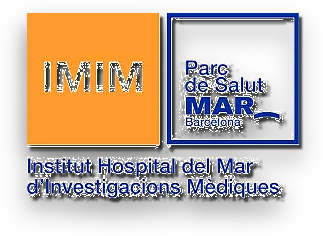
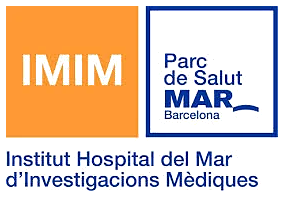
IMIM: reemplaza el PNG con ruido por la versión limpia
El script de relieve 3D del paquete generaba un moteado/ruido real
sobre el texto blanco de IMIM (naranja sólido detrás, alto contraste)
-- confirmado comparando contra la versión limpia sin ese paso, que
sale perfecta. Se usa esa, recortada igual que las demás, con una
sombra suave por CSS para no quedar plana al lado de las que sí
tienen relieve horneado.

diff --git a/sitio-andree/css/theme.css b/sitio-andree/css/theme.css
@@ -6230,3 +6230,15 @@ body:has(.investigacion-sola) .progressive-blur {
    Sin línea, sin subrayado, sin resplandor: el logo con su relieve 3D
    ya horneado en el PNG es el único tratamiento. */
 
+/* --------------------------------------------------------------------------
+   IMIM · reemplazado por la versión limpia, sin relieve horneado
+
+   El PNG 3D de IMIM (texto blanco grueso sobre naranja sólido) salía
+   con un ruido/moteado real del propio script de generación -- se usa
+   la versión limpia (sin ese paso) en su lugar. Sombra suave por CSS
+   nada más, para que no quede totalmente plano al lado de los demás
+   escudos, que sí tienen relieve horneado. */
+#sobre img[src*="imim"] {
+  filter: drop-shadow(0 5px 10px rgba(0, 0, 0, 0.55));
+}
+
